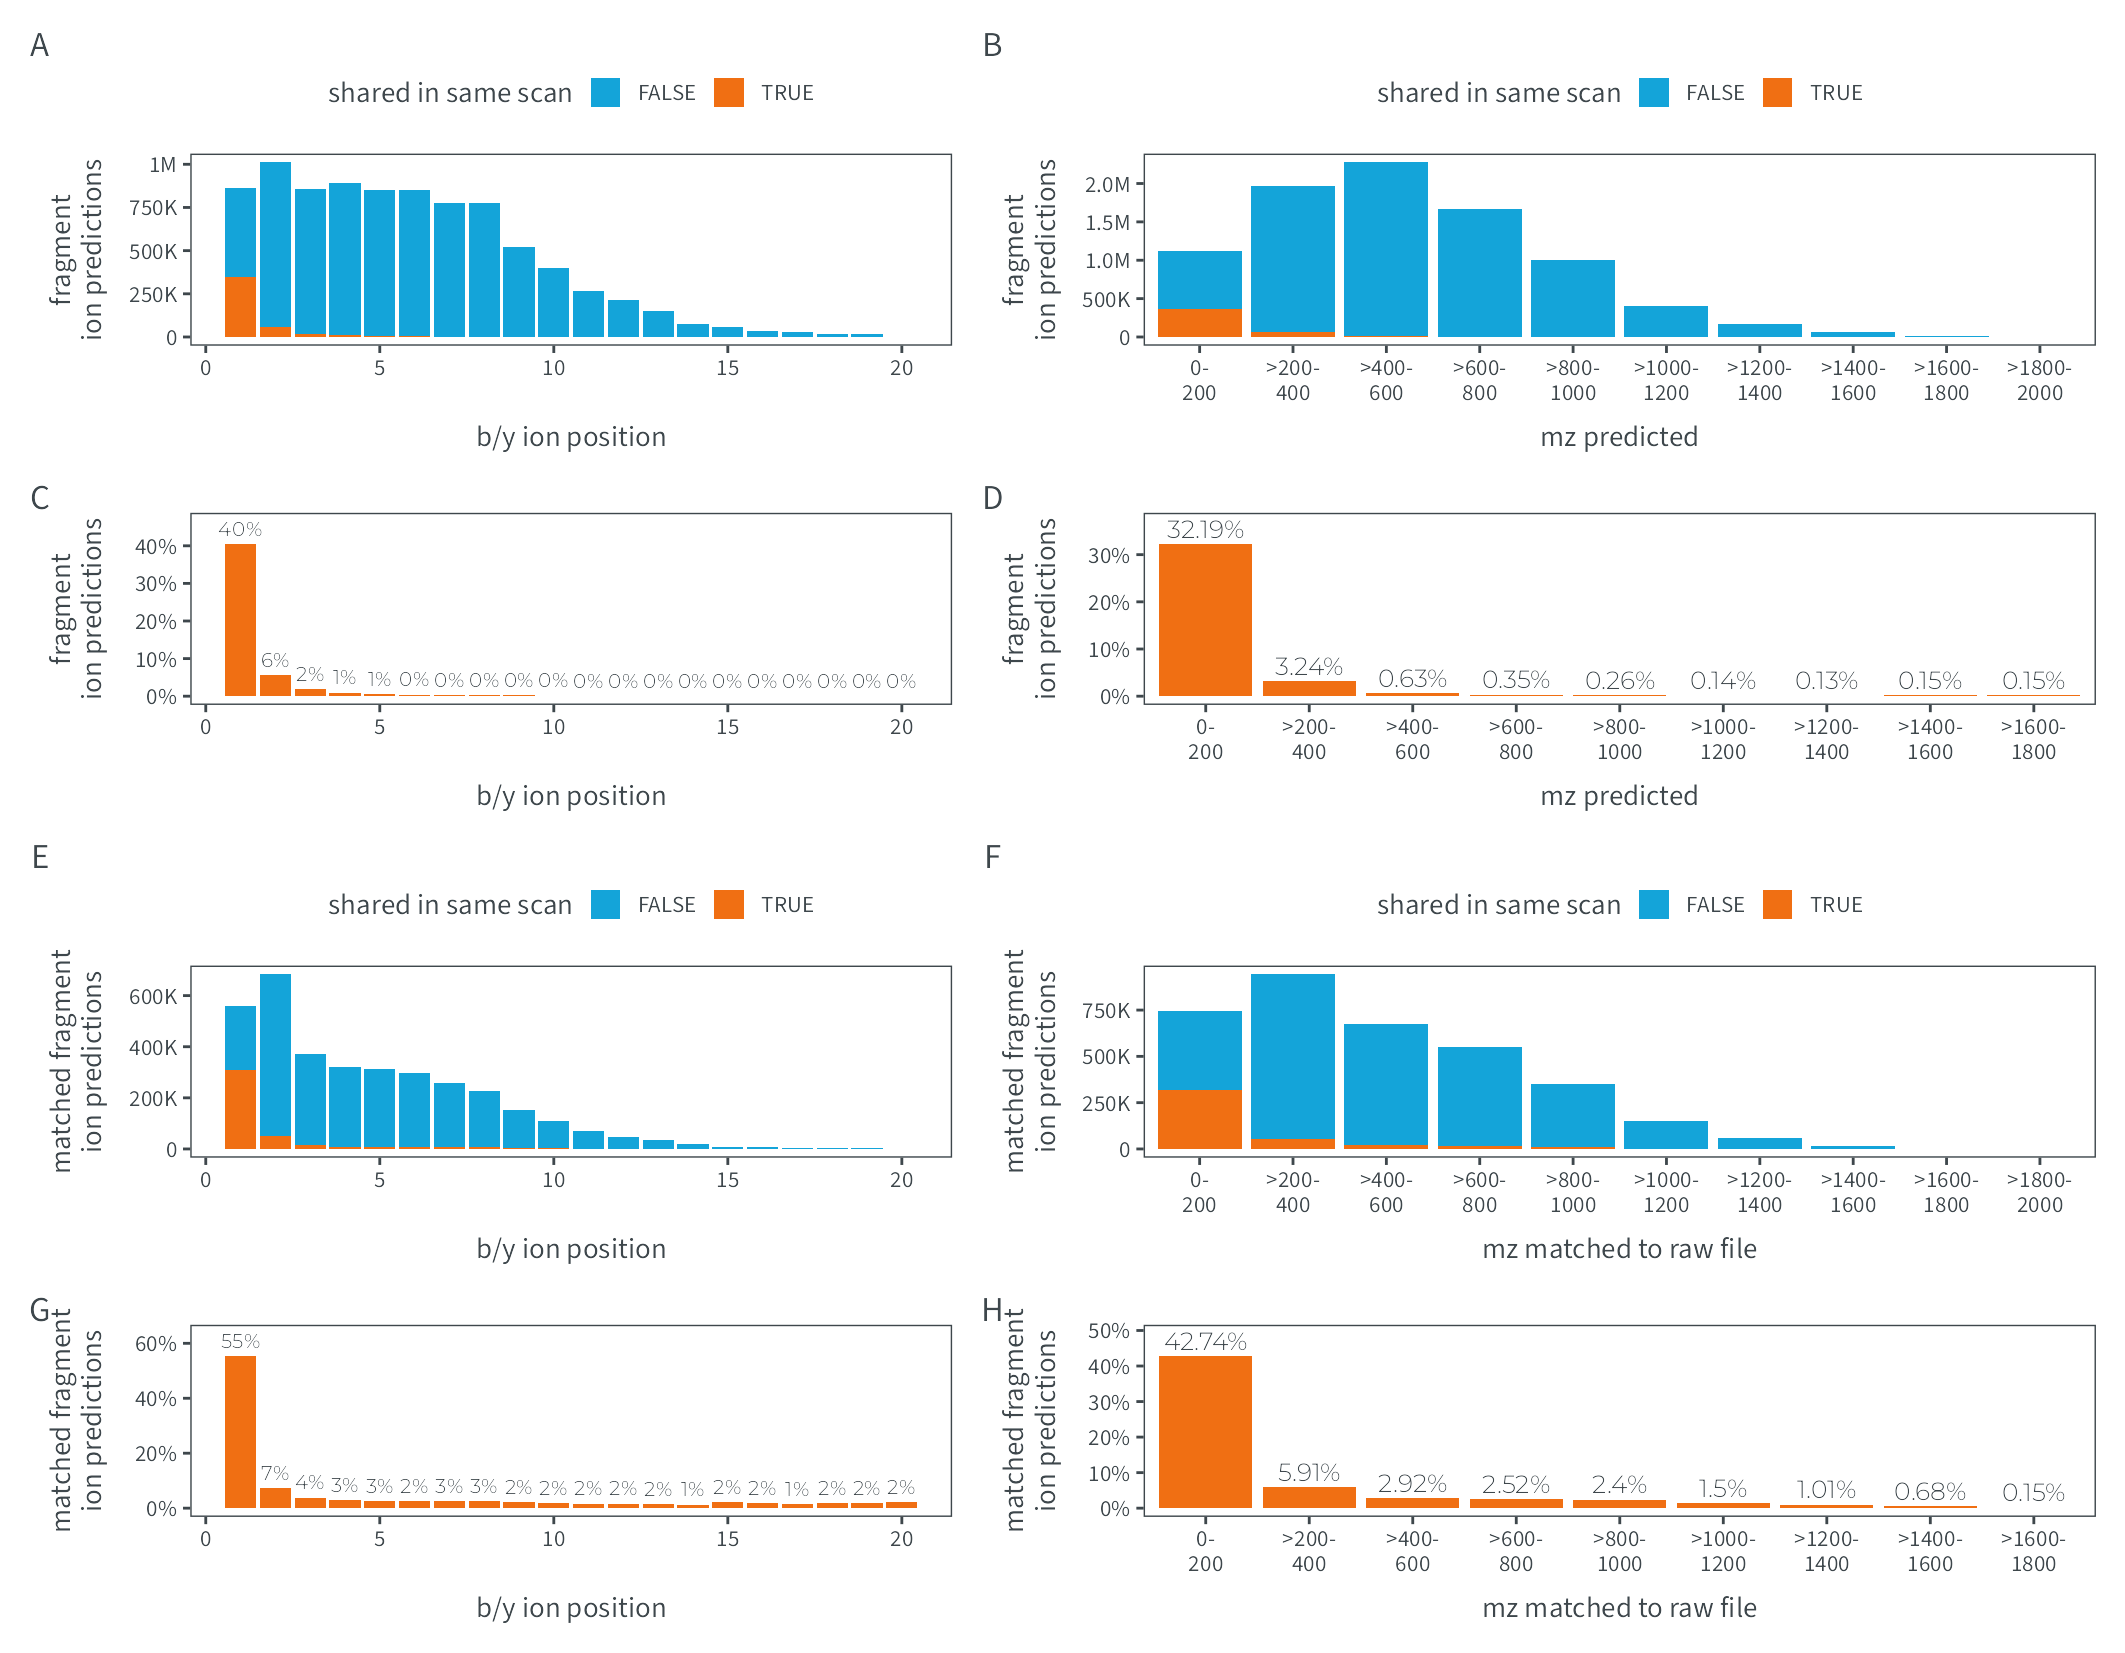
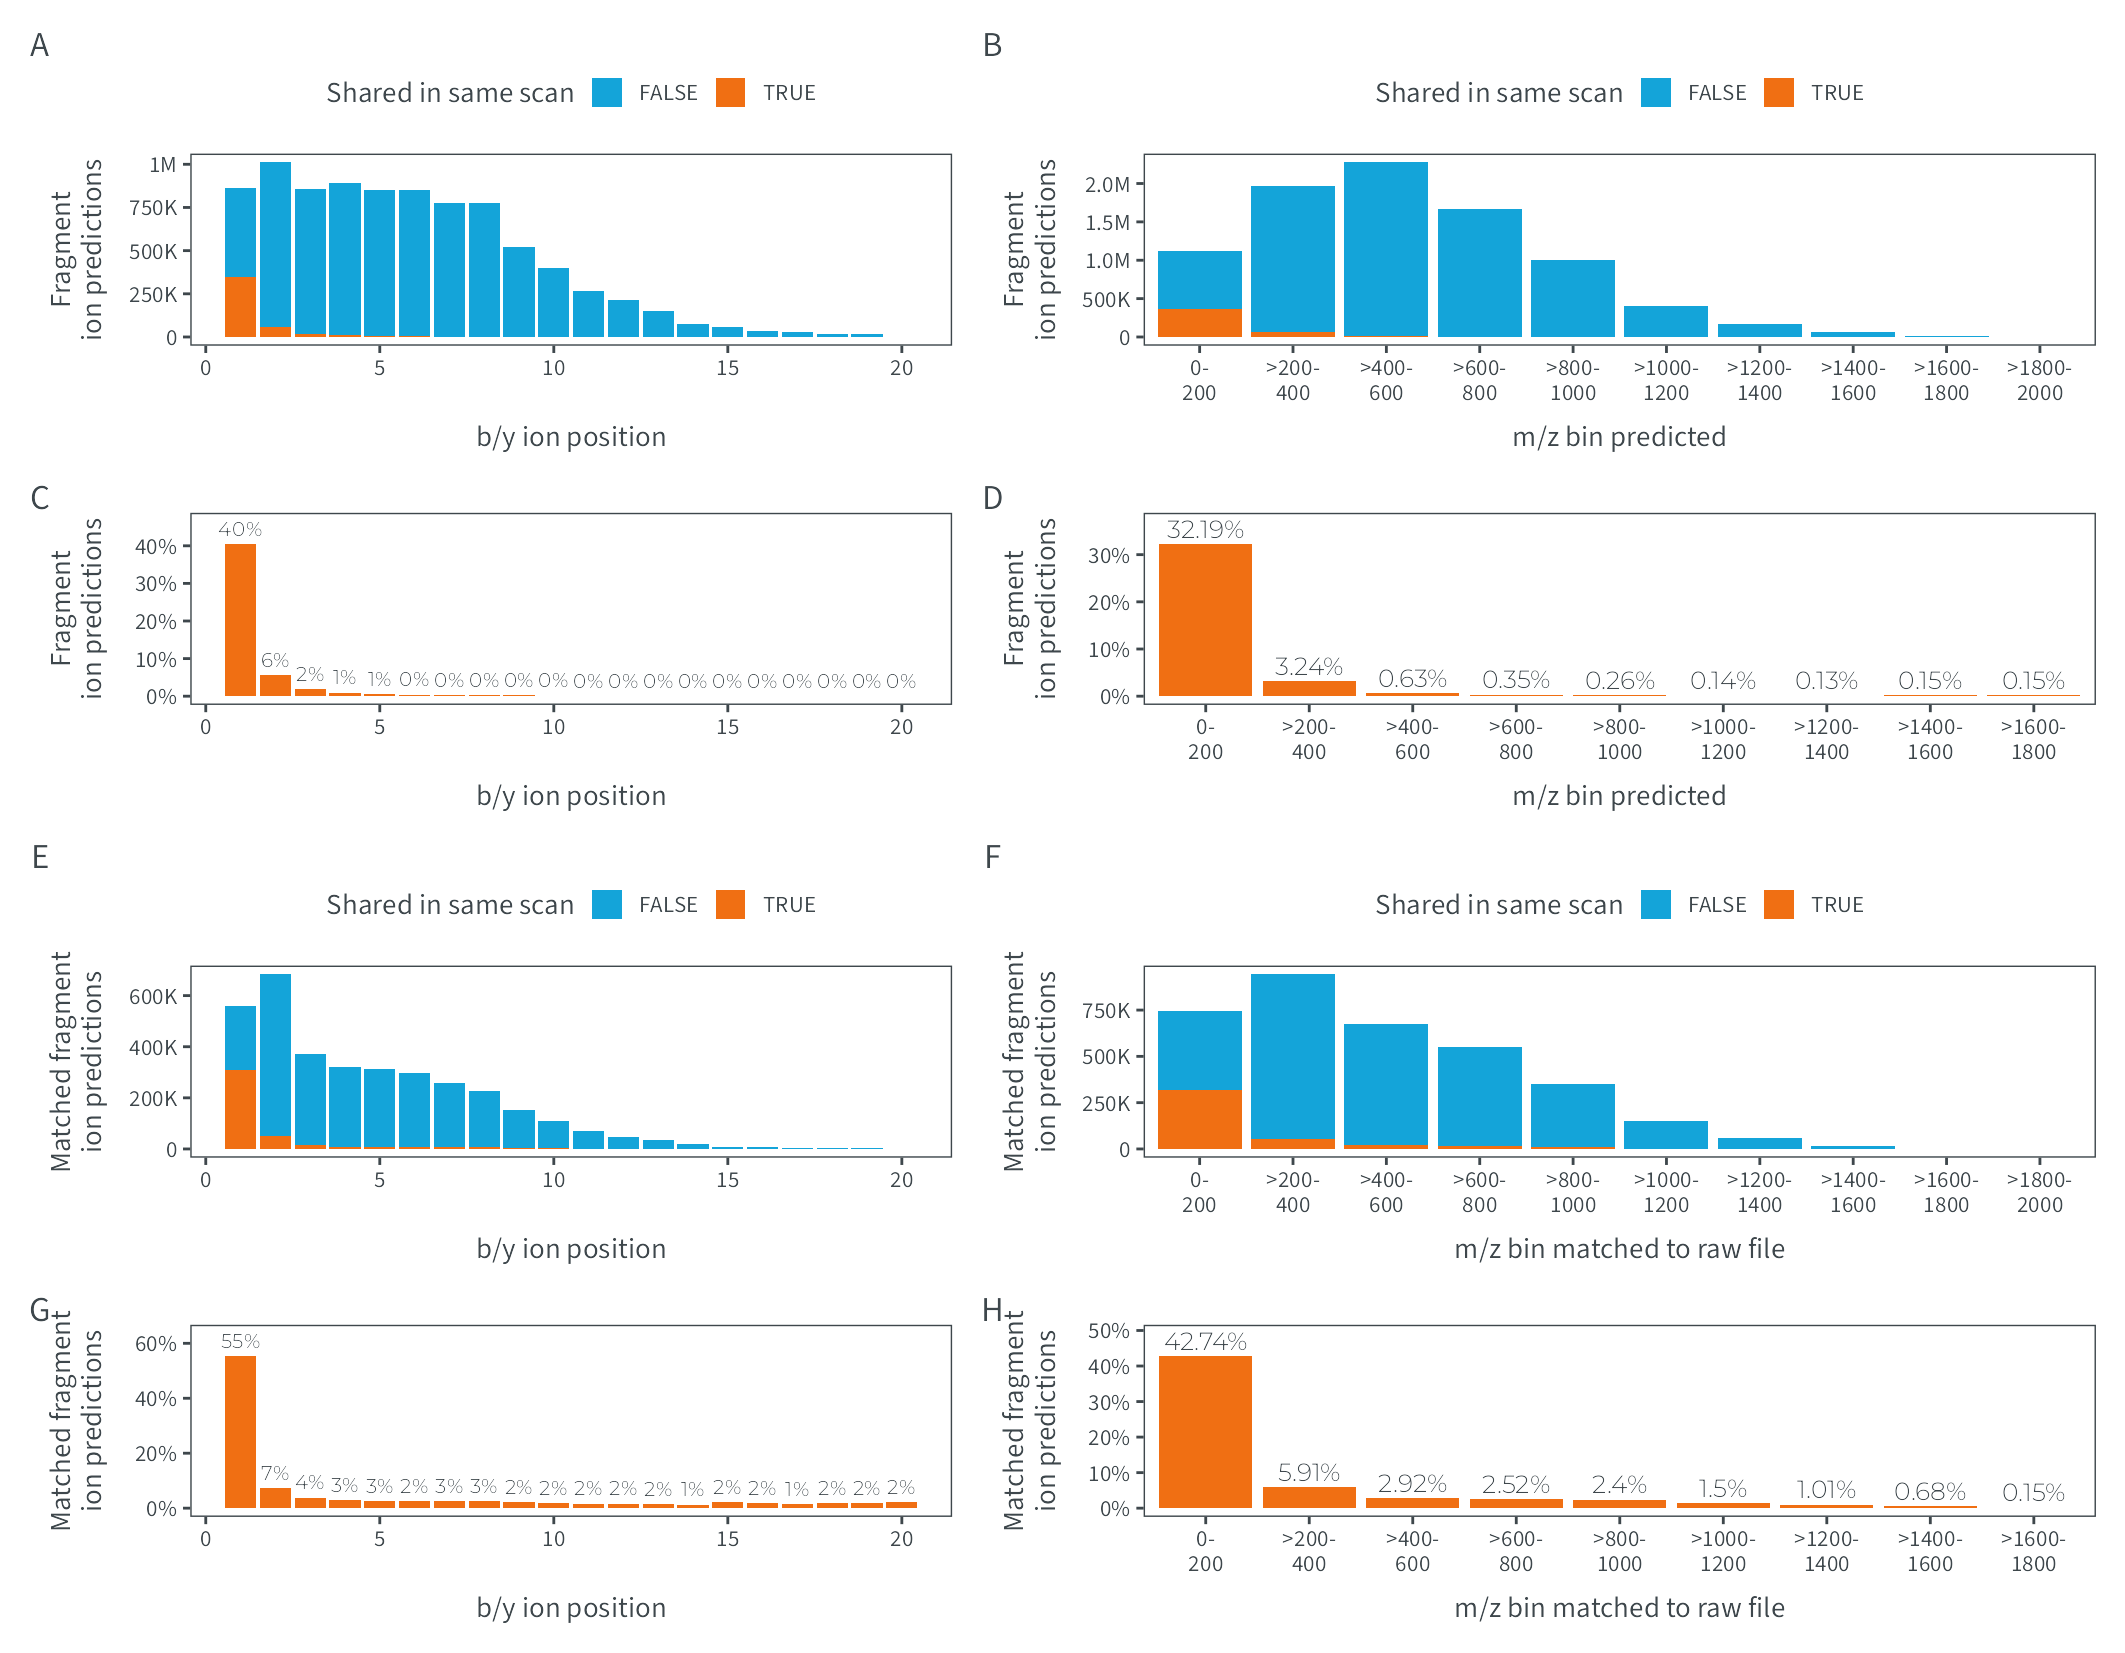
27f47ee capitalized axes and legends

diff --git a/figure-S1/README.md b/figure-S1/README.md
@@ -50,9 +50,9 @@ count_pos <- fread(file.path(figurePath, "figure-S1AC-predicted-position.csv"))
 p_ion_pred_pos_abs <-
   ggplot(count_pos, aes(x=position, y=N, fill=is_ptm_pred_shared)) +
   geom_bar(stat="identity") +
-  scale_fill_manual("shared in same scan", values = c(msaid_blue, msaid_orange)) +
+  scale_fill_manual("Shared in same scan", values = c(msaid_blue, msaid_orange)) +
   scale_y_continuous(labels = label_number(scale_cut = cut_short_scale())) +
-  xlab("b/y ion position") + ylab("fragment\nion predictions") +
+  xlab("b/y ion position") + ylab("Fragment\nion predictions") +
   theme(legend.position = "top")
 
 p_ion_pred_pos_rel <-
@@ -63,7 +63,7 @@ p_ion_pred_pos_rel <-
             color=msaid_darkgray, family="Montserrat Light") +
   scale_y_continuous(labels = label_percent(),
                      limits = c(0, count_pos[is_ptm_pred_shared==T, max(N_rel)]*1.15)) +
-  xlab("b/y ion position") + ylab("fragment\nion predictions")
+  xlab("b/y ion position") + ylab("Fragment\nion predictions")
 
 
 #plot 200 mz-bins
@@ -74,9 +74,9 @@ count_200[, mzMatch_label := factor(mzMatch_label, unique(mz_lab))]
 p_ion_pred_200_abs <-
   ggplot(count_200, aes(x=mzMatch_label, y=N, fill=is_ptm_pred_shared)) +
   geom_bar(stat="identity") +
-  scale_fill_manual("shared in same scan", values = c(msaid_blue, msaid_orange)) +
+  scale_fill_manual("Shared in same scan", values = c(msaid_blue, msaid_orange)) +
   scale_y_continuous(labels = label_number(scale_cut = cut_short_scale())) +
-  xlab("mz predicted") + ylab("fragment\nion predictions") +
+  xlab("m/z bin predicted") + ylab("Fragment\nion predictions") +
   theme(legend.position = "top")
 
 p_ion_pred_200_rel <-
@@ -87,7 +87,7 @@ p_ion_pred_200_rel <-
             color=msaid_darkgray, family="Montserrat Light") +
   scale_y_continuous(labels = label_percent(),
                      limits = c(0, count_200[is_ptm_pred_shared==T, max(N_rel)]*1.15)) +
-  xlab("mz predicted") + ylab("fragment\nion predictions")
+  xlab("m/z bin predicted") + ylab("Fragment\nion predictions")
 ```
 
 ## Matched ions
@@ -102,9 +102,9 @@ count_pos <- fread(file.path(figurePath, "figure-S1EG-matched-position.csv"))
 p_ion_shared_pos_abs <-
   ggplot(count_pos, aes(x=position, y=N, fill=is_ptm_match_shared)) +
   geom_bar(stat="identity") +
-  scale_fill_manual("shared in same scan", values = c(msaid_blue, msaid_orange)) +
+  scale_fill_manual("Shared in same scan", values = c(msaid_blue, msaid_orange)) +
   scale_y_continuous(labels = label_number(scale_cut = cut_short_scale())) +
-  xlab("b/y ion position") + ylab("matched fragment\nion predictions") +
+  xlab("b/y ion position") + ylab("Matched fragment\nion predictions") +
   theme(legend.position = "top")
 
 p_ion_shared_pos_rel <-
@@ -115,7 +115,7 @@ p_ion_shared_pos_rel <-
             color=msaid_darkgray, family="Montserrat Light") +
   scale_y_continuous(labels = label_percent(),
                      limits = c(0, count_pos[is_ptm_match_shared==T, max(N_rel)]*1.15)) +
-  xlab("b/y ion position") + ylab("matched fragment\nion predictions")
+  xlab("b/y ion position") + ylab("Matched fragment\nion predictions")
 
 
 #plot 200 mz-bins
@@ -126,9 +126,9 @@ count_200[, mzMatch_label := factor(mzMatch_label, unique(mz_lab))]
 p_ion_shared_200_abs <-
   ggplot(count_200, aes(x=mzMatch_label, y=N, fill=is_ptm_match_shared)) +
   geom_bar(stat="identity") +
-  scale_fill_manual("shared in same scan", values = c(msaid_blue, msaid_orange)) +
+  scale_fill_manual("Shared in same scan", values = c(msaid_blue, msaid_orange)) +
   scale_y_continuous(labels = label_number(scale_cut = cut_short_scale())) +
-  xlab("mz matched to raw file") + ylab("matched fragment\nion predictions") +
+  xlab("m/z bin matched to raw file") + ylab("Matched fragment\nion predictions") +
   theme(legend.position = "top")
 
 p_ion_shared_200_rel <-
@@ -139,7 +139,7 @@ p_ion_shared_200_rel <-
             color=msaid_darkgray, family="Montserrat Light") +
   scale_y_continuous(labels = label_percent(),
                      limits = c(0, count_200[is_ptm_match_shared==T, max(N_rel)]*1.15)) +
-  xlab("mz matched to raw file") + ylab("matched fragment\nion predictions")
+  xlab("m/z bin matched to raw file") + ylab("Matched fragment\nion predictions")
 ```
 
 </details>
